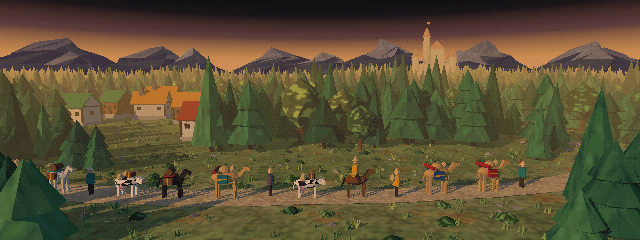
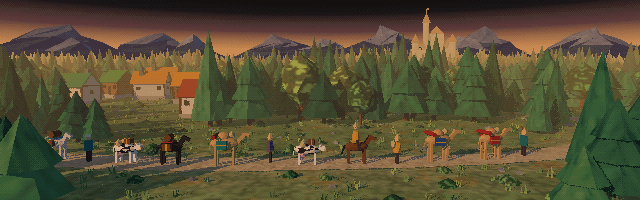
Shorter hero: 640x200 render, lower camera, less grass and sky

diff --git a/index.html b/index.html
@@ -129,20 +129,20 @@
     }
     .blink { animation: blink 1.1s steps(1) infinite; }
 
-    /* Заставка: 640×240 / 256 цветов из art/header.py, растянута без сглаживания;
+    /* Заставка: 640×200 / 256 цветов из art/header.py, растянута без сглаживания;
        поверх всего (и HUD, и заголовка) — строки развёртки и виньетка VGA-монитора */
     .hero {
       position: relative;
       isolation: isolate;
       margin: -1.25rem -1rem 0;
       padding: 1.25rem 1rem 0;
-      min-height: clamp(400px, 37.5vw, 640px);
+      min-height: clamp(360px, 31.25vw, 600px); /* 31.25vw = 200/640 */
     }
     .hero::before, .hero::after {
       content: "";
       position: absolute;
       inset: 0;
-      mask-image: linear-gradient(#000 80%, transparent);
+      mask-image: linear-gradient(#000 85%, transparent);
     }
     .hero::before {
       z-index: -1;

diff --git a/art/header.py b/art/header.py
@@ -3,7 +3,7 @@
     blender -b -P art/header.py -- header.png [scene.blend]
 
 Rendered like a late-90s game: soapy low-res tiled textures, no anti-aliasing,
-640x240 frame squeezed into a 256-colour VGA palette with ordered dithering.
+640x200 frame squeezed into a 256-colour VGA palette with ordered dithering.
 Scanlines are added in CSS. Everything is procedural and seeded: same script, same picture.
 """
 import bisect
@@ -26,11 +26,11 @@ BLEND = os.path.abspath(args[1]) if len(args) > 1 else None
 
 rnd = random.Random(19991126)  # Kirill's day one
 npr = np.random.default_rng(19991126)
-RES = 640, 240
+RES = 640, 200
 FOG = '#d9a25e'                # dusk haze == sky at the horizon
 SKY = [(0.0, FOG), (0.3, '#c98850'), (0.55, '#5e3c3a'), (0.8, '#1a1719'), (1.0, '#0b0d0a')]  # up to frame top
 FOG_START, FOG_DIST = 30.0, 260.0
-CAM, LOOK, LENS = Vector((0, -40, 8)), Vector((0, 40, -0.4)), 20
+CAM, LOOK, LENS = Vector((0, -40, 6.5)), Vector((0, 40, -0.2)), 20
 CASTLE = Vector((80, 215, 0))
 VILLAGE = Vector((-34, 32, 0))
 

diff --git a/CLAUDE.md b/CLAUDE.md
@@ -26,9 +26,9 @@ JS — lives inline in `index.html`. Edit that one file.
 - Years are counted by calendar (anniversary check), not by dividing milliseconds, so
   leap years stay correct.
 - `.nojekyll` disables Jekyll processing — leave it in place.
-- `header.png` (hero background: 640×240, 256-colour indexed) is rendered by `art/header.py`,
+- `header.png` (hero background: 640×200, 256-colour indexed) is rendered by `art/header.py`,
   a procedural Blender scene: `blender -b -P art/header.py -- header.png [scene.blend]`.
-  Pixel upscaling, scanlines and vignette are CSS (`.hero::before`), not baked into the image.
+  Pixel upscaling, scanlines and vignette are CSS (`.hero::before` / `::after`), not baked into the image.
 - `CNAME` holds the single canonical custom domain (`korovan.ru`). GitHub Pages allows
   only one custom domain per repo; the second domain `kopobah.ru` ("korovan" in the
   Russian keyboard layout) is a Cloudflare redirect to it, not a separate Pages site.
